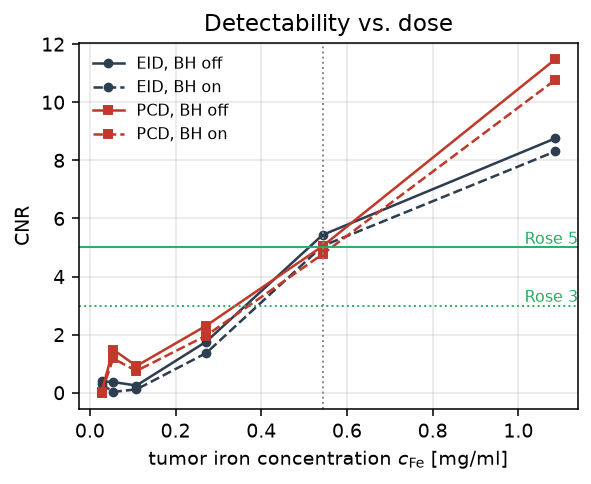
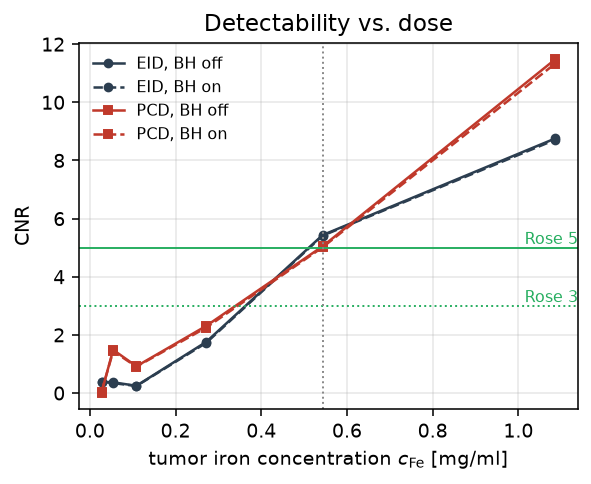
Calibrated water beam-hardening precorrection (fix cupping / BH artifact)
The BH correction used a hardcoded quadratic p + 0.10*p^2 that is not matched to
the spectrum: it is ~7x too strong (the spectrum-calibrated leading term is ~0.014)
and OVER-corrects a monochromatic-flat water disk from 1% cupping into +9% capping
-- i.e. turning correction "on" made the reconstruction worse. This also inflated
the BH-on iron dHU in the factorial (EID 4.1 vs 3.4), an artifact.

Add conrad_ct.water_precorrection_poly(): tabulate the polychromatic water line
integral p_poly(L) for a detector's effective spectrum (EID: s*E; PCD: bin-weight*s)
and fit p_mono = poly(p_poly), linearizing the water response so a water cylinder
reconstructs flat (verified center/edge 1.001). run_factorial calibrates it per
detector. Re-run: BH-on now ~= BH-off (EID dHU 3.49 vs 3.40; PCD 5.02 vs 4.72) and
all four cells share the 0.54 mg Fe/ml threshold at Rose 3 and 5 -- the
"BH-correction is negligible for iron" finding is now correctly supported.

diff --git a/src/conrad_ct.py b/src/conrad_ct.py
@@ -102,11 +102,36 @@ def project(image_np, geo, gpu=None):
     return grid2d_to_np(fp.projectRayDriven(g))               # CPU
 
 
-def fbp(sino_np, geo, bh_correction=False, bh_c2=0.10):
+def water_precorrection_poly(E, w_eff, mu_water_percm, Lmax_cm=30.0, deg=4):
+    """Calibrated water beam-hardening precorrection polynomial.
+
+    Given a detector's effective per-energy weighting w_eff(E) (EID: s*E;
+    PCD-combined: bin-weight*s) and water linear attenuation mu(E) [1/cm], tabulate
+    the polychromatic water line integral p_poly(L) = -log(sum w exp(-mu L)) and fit
+    p_mono = poly(p_poly), where p_mono = mu_ref*L is the linear (monochromatic)
+    response at the spectrum-weighted mean mu_ref. Applying poly() to a measured
+    line integral linearizes the water response, so a water cylinder reconstructs
+    flat (removing cupping) instead of relying on a guessed quadratic coefficient.
+    """
+    w = np.asarray(w_eff, float); w = w / w.sum()
+    L = np.linspace(0.0, Lmax_cm, 400)
+    p_poly = np.array([-np.log(np.sum(w * np.exp(-mu_water_percm * l))) for l in L])
+    mu_ref = float(np.sum(w * mu_water_percm))        # low-dose slope dp/dL at L=0
+    return np.polyfit(p_poly, mu_ref * L, deg)
+
+
+def fbp(sino_np, geo, bh_correction=False, bh_poly=None, bh_c2=0.10):
     """Fan-beam FBP: (optional water beam-hardening precorrection ->) cosine ->
-    ramp filter -> CONRAD distance-weighted backprojection."""
+    ramp filter -> CONRAD distance-weighted backprojection.
+
+    Water precorrection: pass a calibrated `bh_poly` (from water_precorrection_poly);
+    the legacy fixed `bh_c2` quadratic is only a fallback and is NOT spectrum-matched.
+    """
     if bh_correction:
-        sino_np = sino_np + bh_c2 * sino_np ** 2      # nominal water precorrection
+        if bh_poly is not None:
+            sino_np = np.polyval(bh_poly, sino_np)    # calibrated water precorrection
+        else:
+            sino_np = sino_np + bh_c2 * sino_np ** 2   # legacy fallback (uncalibrated)
     n_ang, n_det = sino_np.shape
     t = (np.arange(n_det) - (n_det - 1) / 2.0) * geo["deltaT"]
     cos_w = geo["focal"] / np.sqrt(geo["focal"] ** 2 + t ** 2)   # fan cosine weight

diff --git a/src/run_factorial.py b/src/run_factorial.py
@@ -105,6 +105,22 @@ def line_integral(acc, detector, seed):
     return -np.log(np.clip(M, eps, None) / max(M_air, eps))
 
 
+def bh_poly_for(acc, detector):
+    """Calibrated water precorrection polynomial for a detector's effective spectrum
+    (EID weights energy by E; PCD by the per-bin matched-filter weight)."""
+    E, s, edges = acc["E"], acc["s"], acc["edges"]
+    mu_w = materials.linear_attenuation("water", E)     # 1/cm
+    if detector == "EID":
+        w_eff = s * E
+    else:
+        w = _pcd_weights(acc)
+        w_eff = np.zeros_like(s)
+        for b in range(len(edges) - 1):
+            m = (E >= edges[b]) & (E < edges[b + 1])
+            w_eff[m] = w[b] * s[m]
+    return conrad_ct.water_precorrection_poly(E, w_eff, mu_w)
+
+
 def run():
     scene, inserts = conrad_phantom.build_phantom()
     geo = conrad_ct.fan_geometry(n_pix=512)
@@ -114,11 +130,12 @@ def run():
 
     rows = []
     for detector in DETECTORS.types:                    # EID, PCD
+        bh_poly = bh_poly_for(acc, detector)            # calibrated per detector
         for bh in (False, True):
             signal = {i["name"]: [] for i in inserts}
             for seed in range(EVAL.noise_realizations):
                 sino = line_integral(acc, detector, seed)
-                recon = conrad_ct.fbp(sino, geo, bh_correction=bh)
+                recon = conrad_ct.fbp(sino, geo, bh_correction=bh, bh_poly=bh_poly)
                 meas = cp.measure_inserts(recon, geo, inserts)
                 for m in meas:
                     signal[m["name"]].append((m["iron_delta_hu"], m["delta_hu"]))